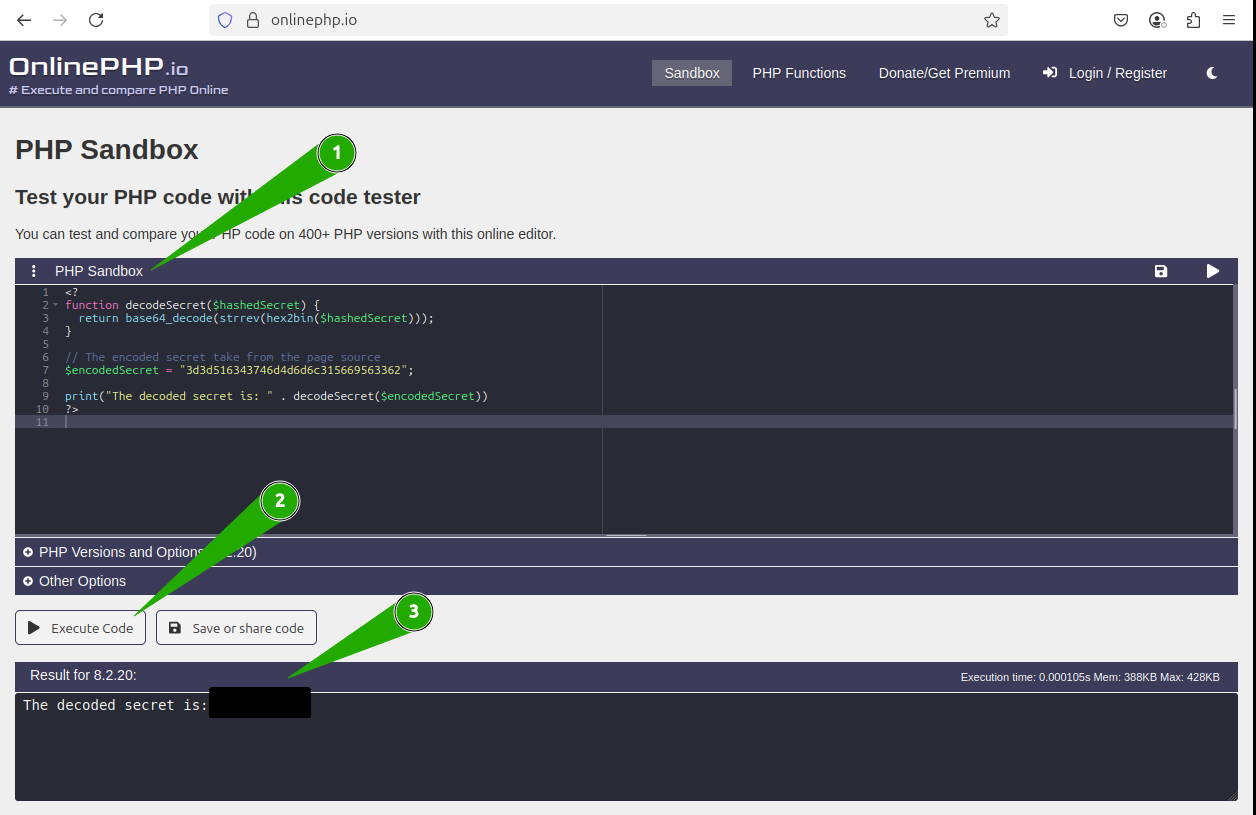
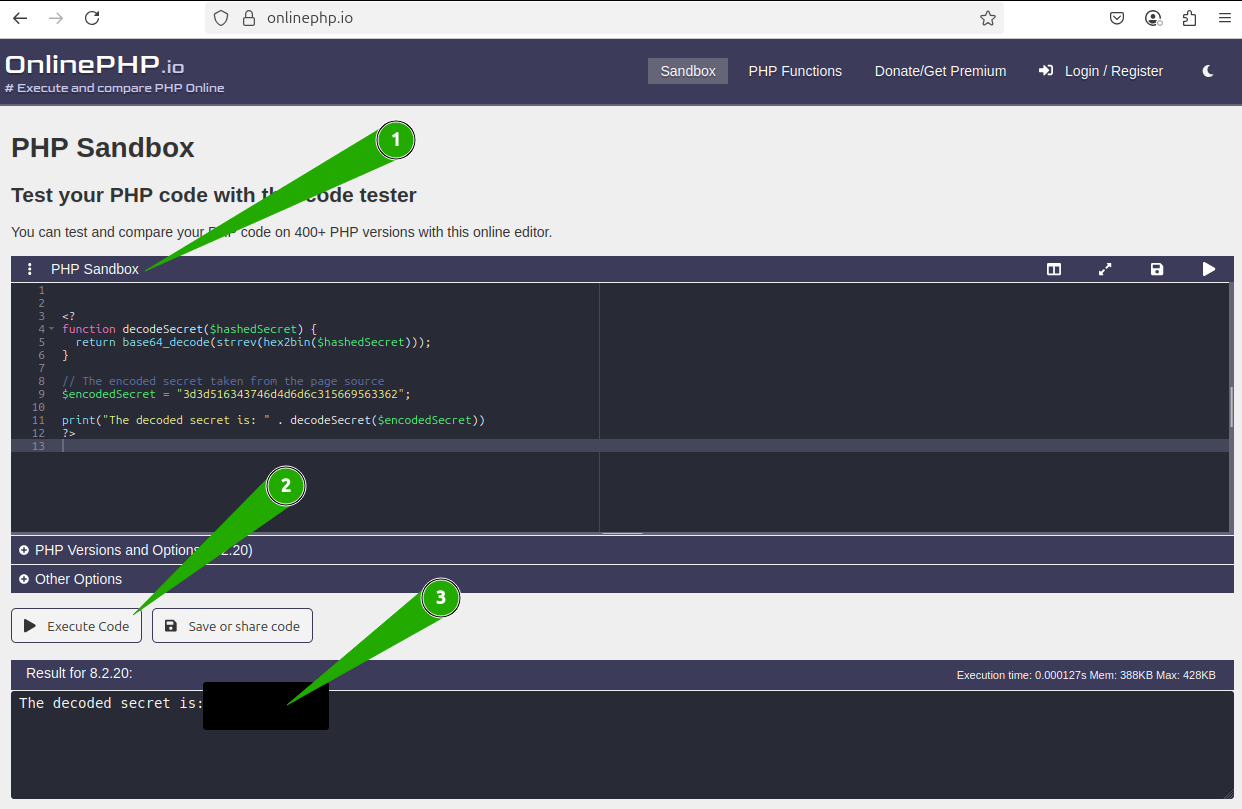
fix: typos and missing image

Changed region(s): [[0.0, 0.0, 1.0, 1.0], [0.8261, 0.309, 0.8567, 0.3399]]

diff --git a/overthewire/natas/level_09.md b/overthewire/natas/level_09.md
@@ -34,18 +34,17 @@ webpage. The passwords are censored, but the logic for the page is shown:
 
 ![Index Source Code](images/level_09/01_index_source_code.png)
 
-This is PHP code. With a little formatting and commenting is becomes clearer
-exactly what is going on:
+This is PHP code. With a little formatting and commenting it becomes clearer
+what is going on:
 
 ```php
-
 // This is the secret that has been encoded using the "encodeSecret" function.
 $encodedSecret = "3d3d516343746d4d6d6c315669563362";
 
-// Function that can be called with a secret and then returns an encoded version
-// of that secret.
+// Function that can be called with a secret, and returns the encoded version of
+// that secret.
 function encodeSecret($secret) {
-  // The algorithm to encode the secret:
+  // The algorithm to encode the secret
   //  1. do a base64 encoding of the secret
   //  2. do a string reversal of the result of step 1
   //  3. do a binary to hexadecimal conversion of the result of step 2
@@ -114,9 +113,10 @@ the input to the next function. The order of operations is:
 3. Take the output of step 2 as the input to `bin2hex`
 
 In PHP the opposite of `base64_encode` is `base64_decode`. The `strrev` function
-reverses a string (`abc` -> `cba`) so it is a "symmetric" function and is the
-reverse of itself. Finally, `bin2hex` can be reversed with the PHP function
-`hex2bin`. So the decoding function would be:
+reverses a string (`abc` -> `cba`) so it is a "symmetric" function and calling
+it twice produces the original string. Finally, `bin2hex` can be reversed with
+the PHP function `hex2bin`. So by putting the decoding function in the opposite
+order, the decoding function would be:
 
 ```php
 <?
@@ -124,7 +124,7 @@ function decodeSecret($hashedSecret) {
   return base64_decode(strrev(hex2bin($hashedSecret)));
 }
 
-// The encoded secret take from the page source
+// The encoded secret taken from the page source
 $encodedSecret = "3d3d516343746d4d6d6c315669563362";
 
 print("The decoded secret is: " . decodeSecret($encodedSecret))
@@ -133,6 +133,8 @@ print("The decoded secret is: " . decodeSecret($encodedSecret))
 
 This is great in theory, but how to actually run the code? A quick online search
 says that https://onlinephp.io provides a sandbox for trying out PHP code:
+
+![PHP Interpreter](images/level_09/02_php_interpreter.png)
 
 1. Paste the code into the `PHP Sandbox`
 2. Click the `Execute Code` button
@@ -154,9 +156,9 @@ There it is: the `natas9` password (removed).
 
 It's always a good idea to think about other solutions. The unix system provides
 a bunch of commands that can manipulate text. To turn this solution into a shell
-script, the three functions need to be reproduced as shell commands.
+script, the three functions need to be reproduced using shell commands.
 
-The `hex2bin` function can be reproduce using the `xxd` command that was
+The `hex2bin` function can be reproduced using the `xxd` command that was
 introduced in [Bandit 13](../bandit/level_13.md):
 
 ```

diff --git a/overthewire/natas/level_07.md b/overthewire/natas/level_07.md
@@ -33,8 +33,8 @@ webpage. The passwords are censored, but the logic for the page is shown:
 
 ![Page Source Code](images/level_07/01_source_code.png)
 
-This is PHP code. With a little formatting and commenting is becomes clearer
-exactly what is going on:
+This is PHP code. With a little formatting and commenting it becomes clearer
+what is going on:
 
 ```php
 
